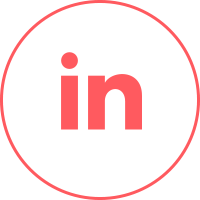
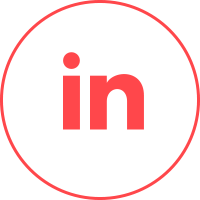
All section ready and responsive, deploying next

diff --git a/code/index.html b/code/index.html
@@ -171,9 +171,9 @@
                     <li>CSS3</li>
                     <li>Javascript ES6</li>
                     <li>React</li>
+                    <li>React Native</li>
                     <li>Redux</li>
                     <li>Git</li>
-                    <li>GitHub</li>
                     <li>Node.js</li>
                 </ul>
             </div>
@@ -181,6 +181,8 @@
             <div class="skill-list">
                 <h2>TOOLBOX</h2>
                 <ul>
+                    <li>GitHub</li>
+                    <li>VS Code</li>
                     <li>Adobe Photoshop</li>
                     <li>Adobe Illustrator</li>
                     <li>Figma</li>
@@ -196,6 +198,8 @@
                     <li>Agile Methodology</li>
                     <li>Mob-programming</li>
                     <li>Pair-programming</li>
+                    <li>Web Accessibility</li>
+                    <li>Unit Testing</li>
                     <li>Staff Management</li>
                     <li>Event planning</li>
                     <li>Unit inventory</li>
@@ -209,23 +213,23 @@
         <h1 class="for-more-title">FOR MORE</h1>
         <div class="for-more-socials-container">            
             <div class="for-more-social-card">
-                <img src="./assets/linkedin-bottom-icon.png" alt="Linkedin icon">
-                <p>LINKEDIN</p>
+                <a href="https://www.linkedin.com/in/vanessa-sue-smith/" target="_blank"><img src="./assets/linkedin-bottom-icon.png" alt="Linkedin icon"></a>
+                <a href="https://www.linkedin.com/in/vanessa-sue-smith/" target="_blank"><p>LINKEDIN</p></a>
             </div>
 
             <div class="for-more-social-card">
-                <img src="./assets/linkedin-bottom-icon.png" alt="Github icon">
-                <p>GITHUB</p>
+                <a href="https://github.com/VanessaSue27" target="_blank"><img src="./assets/github-bottom-icon.png" alt="Github icon"></a>
+                <a href="https://github.com/VanessaSue27" target="_blank"><p>GITHUB</p></a>
             </div>
 
             <div class="for-more-social-card">
-                <img src="./assets/linkedin-bottom-icon.png" alt="Twitter icon">
-                <p>TWITTER</p>
+                <a href="https://twitter.com/vanevalentine" target="_blank"><img src="./assets/twitter-bottom-icon.png" alt="Twitter icon"></a>
+                <a href="https://twitter.com/vanevalentine" target="_blank"><p>TWITTER</p></a>
             </div>
 
             <div class="for-more-social-card">
-                <img src="./assets/linkedin-bottom-icon.png" alt="Instagram icon">
-                <p>INSTAGRAM</p>
+                <a href="https://www.instagram.com/vanevalentine/" target="_blank"><img src="./assets/instagram-bottom-icon.png" alt="Instagram icon"></a>
+                <a href="https://www.instagram.com/vanevalentine/" target="_blank"><p>INSTAGRAM</p></a>
             </div>            
         </div>
     </section>

diff --git a/code/style.css b/code/style.css
@@ -95,15 +95,15 @@ header {
     display: inline-block;
     width: 80px;
     height: 9px;
-    border-top: 4px solid #ff5a60;
+    border-top: 4px solid #FF484C;
 }
 
 .summary-red-dot {
     display: inline-block;
     width: 20px;
     height: 20px;
-    border: 2px solid #ff5a60;
-    background-color: #ff5a60;
+    border: 2px solid #FF484C;
+    background-color: #FF484C;
     margin-right: 15px;
     margin-left: -1px;
     border-radius: 50%;
@@ -120,7 +120,7 @@ header {
 }
 
 .tech-title {
-    background-color: #ff5a60;
+    background-color: #FF484C;
     color: white;
     display: inline-block;
     font-size: 35px;
@@ -137,7 +137,7 @@ header {
 }
 
 .projects-title, .blogposts-title, .skills-section-title, .for-more-title, .blogposts-title-hidden {
-    background-color: #ff5a60;
+    background-color: #FF484C;
     color: white;
     display: inline-block;
     font-size: 35px;
@@ -181,7 +181,7 @@ header {
 }
 
 .project-card h3 {
-    color: #ff5a60;
+    color: #FF484C;
     font-family: 'Roboto', sans-serif;
     font-size: 25px;
     text-align: left;
@@ -202,7 +202,7 @@ header {
 
 .arrow-link {
     font-weight: bold;
-    color: #ff5a60;
+    color: #FF484C;
     text-decoration: underline;
 }
 
@@ -220,7 +220,7 @@ header {
 }
 
 .other-projects-title, .more-blogposts-title {
-    color: #ff5a60;
+    color: #FF484C;
     font-size: 35px;
 }
 
@@ -282,7 +282,7 @@ header {
 }
 
 .date-blogpost {
-    color: #ff5a60;
+    color: #FF484C;
     font-size: 25px;
     margin-bottom: 0;
 }
@@ -313,7 +313,7 @@ header {
 }
 
 .more-thoughts-link {
-    color: #ff5a60;
+    color: #FF484C;
     text-decoration: underline;
 }
 
@@ -354,7 +354,7 @@ ul {
 
 .skill-list h2 {
     margin-bottom: 0;
-    color: #ff5a60;
+    color: #FF484C;
     font-size: 25px;
 }
 
@@ -380,14 +380,18 @@ ul {
 
 .for-more-social-card p {
     font-family: 'Roboto', sans-serif;
-    color: #ff5a60;
+    color: #FF484C;
     font-size: 25px;
     font-weight: bold;
 }
 
+.for-more-social-card a {
+    text-decoration: none;
+}
+
 /*CONTACT SECTION STYLING*/
 .contact-section {
-    background-color: #aa7815;
+    background-color: #B57A0D;
     position: relative;
     bottom: 0;
     height: 450px;
@@ -570,7 +574,7 @@ ul {
     .summary-red-line {
         width: 30px;
         height: 4px;
-        border-top: 2px solid #ff5a60;
+        border-top: 2px solid #FF484C;
     }
     
     .summary-red-dot {
